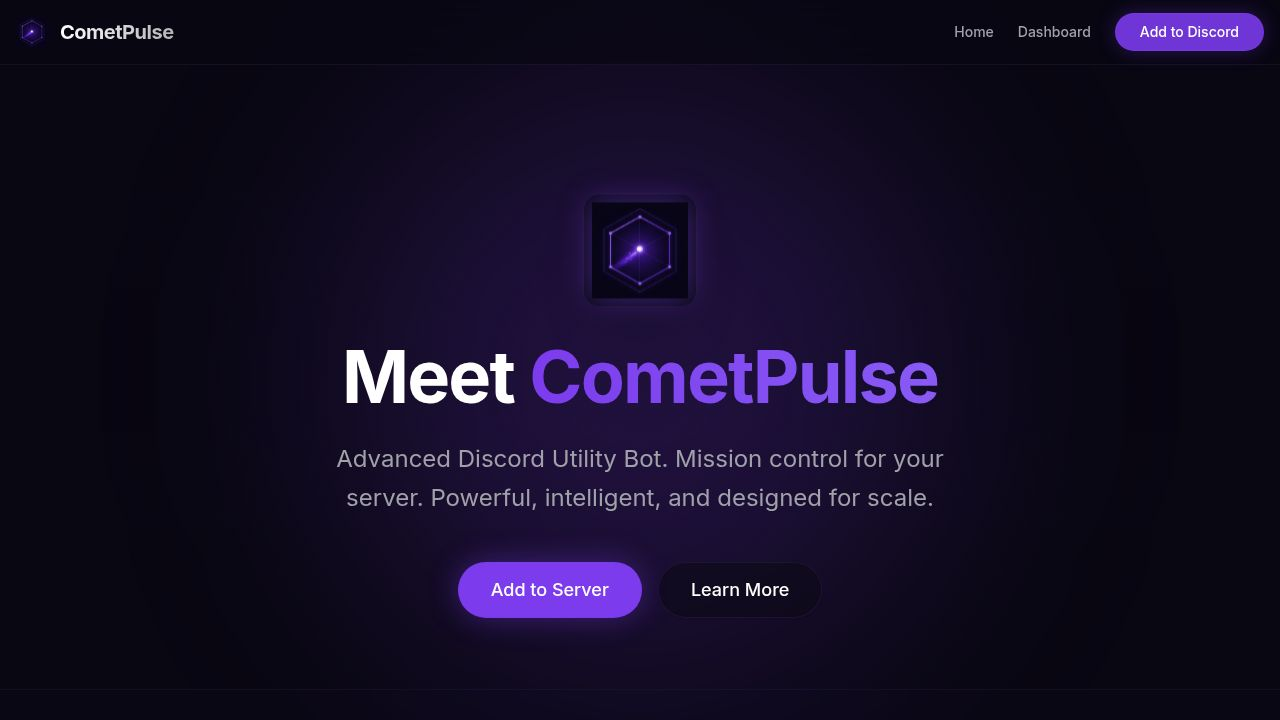
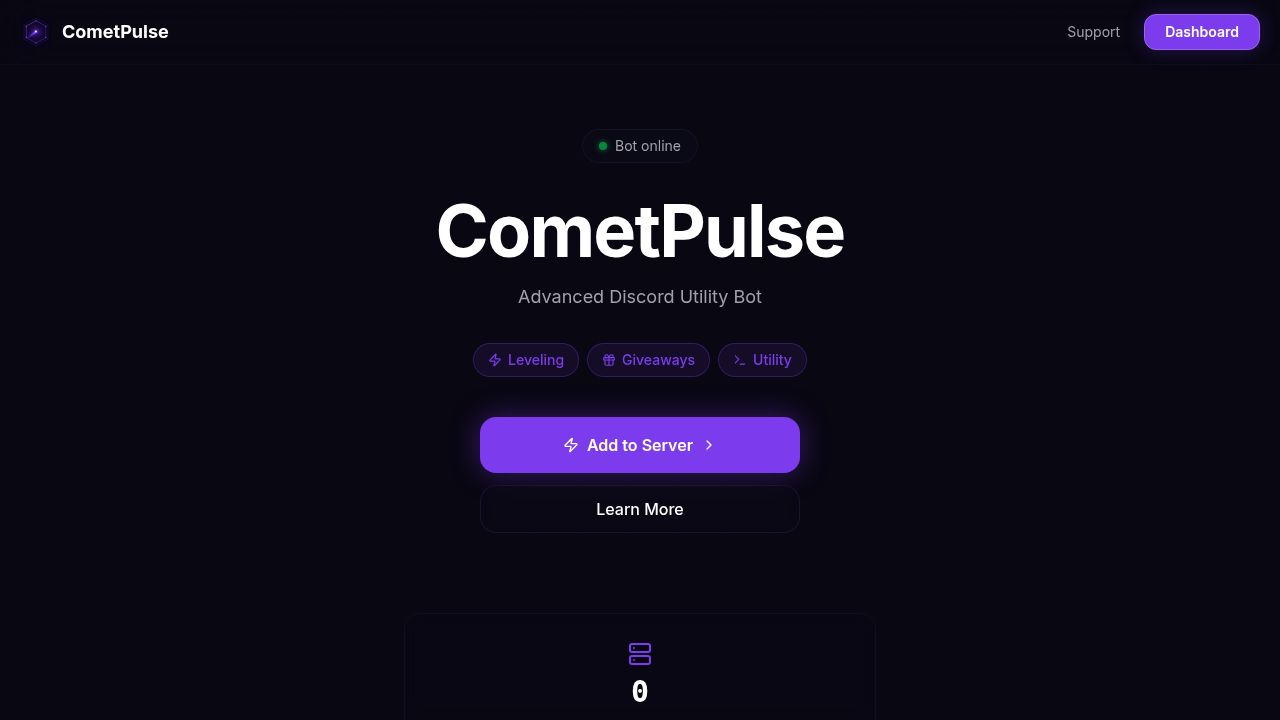
Configure and deploy the dashboard and API server to Render
Update render.yaml and dashboard configurations to enable deployment of both the API server and dashboard services. This includes adjusting port settings, environment variables, and build/start commands. A new server.js file is added for the dashboard's backend functionality.

Replit-Commit-Author: Agent
Replit-Commit-Session-Id: cc53a653-ec47-4b14-bd42-423846c45d6f
Replit-Commit-Checkpoint-Type: full_checkpoint
Replit-Commit-Event-Id: 0e2bfa90-5438-40c3-a42f-837baa0808b9
Replit-Commit-Screenshot-Url: https://storage.googleapis.com/screenshot-production-us-central1/07df3e6b-b4d5-43be-aa9c-41c593d2ee37/cc53a653-ec47-4b14-bd42-423846c45d6f/zeIOswi
Replit-Helium-Checkpoint-Created: true

diff --git a/artifacts/dashboard/server.js b/artifacts/dashboard/server.js
@@ -1,0 +1,137 @@
+import express from "express";
+import session from "express-session";
+import { createProxyMiddleware } from "http-proxy-middleware";
+import { fileURLToPath } from "url";
+import { dirname, join } from "path";
+import { existsSync } from "fs";
+
+const __dirname = dirname(fileURLToPath(import.meta.url));
+
+const PORT = process.env.PORT || 5000;
+const BOT_API_URL = process.env.BOT_API_URL;
+const CLIENT_ID = process.env.CLIENT_ID || process.env.DISCORD_CLIENT_ID;
+const CLIENT_SECRET = process.env.CLIENT_SECRET;
+const SESSION_SECRET = process.env.SESSION_SECRET || "changeme-set-SESSION_SECRET";
+const BASE_URL = process.env.BASE_URL || `http://localhost:${PORT}`;
+const REDIRECT_URI = `${BASE_URL}/auth/callback`;
+
+const app = express();
+
+app.use(
+  session({
+    secret: SESSION_SECRET,
+    resave: false,
+    saveUninitialized: false,
+    cookie: {
+      secure: process.env.NODE_ENV === "production",
+      httpOnly: true,
+      maxAge: 7 * 24 * 60 * 60 * 1000,
+    },
+  })
+);
+
+app.get("/auth/login", (_req, res) => {
+  if (!CLIENT_ID) {
+    res.status(500).send("CLIENT_ID is not configured");
+    return;
+  }
+  const url =
+    `https://discord.com/oauth2/authorize` +
+    `?client_id=${CLIENT_ID}` +
+    `&redirect_uri=${encodeURIComponent(REDIRECT_URI)}` +
+    `&response_type=code` +
+    `&scope=identify%20guilds`;
+  res.redirect(url);
+});
+
+app.get("/auth/callback", async (req, res) => {
+  const { code } = req.query;
+  if (!code) {
+    res.status(400).send("Missing OAuth code");
+    return;
+  }
+
+  try {
+    const tokenRes = await fetch("https://discord.com/api/oauth2/token", {
+      method: "POST",
+      headers: { "Content-Type": "application/x-www-form-urlencoded" },
+      body: new URLSearchParams({
+        client_id: CLIENT_ID,
+        client_secret: CLIENT_SECRET,
+        grant_type: "authorization_code",
+        code: String(code),
+        redirect_uri: REDIRECT_URI,
+      }),
+    });
+
+    const tokenData = await tokenRes.json();
+    if (!tokenRes.ok) {
+      console.error("OAuth token error:", tokenData);
+      res.status(500).send("Failed to exchange OAuth code");
+      return;
+    }
+
+    const userRes = await fetch("https://discord.com/api/users/@me", {
+      headers: { Authorization: `Bearer ${tokenData.access_token}` },
+    });
+    const user = await userRes.json();
+
+    const guildsRes = await fetch("https://discord.com/api/users/@me/guilds", {
+      headers: { Authorization: `Bearer ${tokenData.access_token}` },
+    });
+    const guilds = await guildsRes.json();
+
+    req.session.user = user;
+    req.session.guilds = guilds;
+    req.session.accessToken = tokenData.access_token;
+
+    res.redirect("/");
+  } catch (err) {
+    console.error("OAuth callback error:", err);
+    res.status(500).send("Authentication failed");
+  }
+});
+
+app.get("/auth/logout", (req, res) => {
+  req.session.destroy(() => {
+    res.redirect("/");
+  });
+});
+
+app.get("/auth/user", (req, res) => {
+  res.json(req.session.user || null);
+});
+
+app.get("/auth/guilds", (req, res) => {
+  res.json(req.session.guilds || []);
+});
+
+if (BOT_API_URL) {
+  app.use(
+    "/api",
+    createProxyMiddleware({
+      target: BOT_API_URL,
+      changeOrigin: true,
+    })
+  );
+} else {
+  console.warn("BOT_API_URL is not set — /api requests will not be proxied");
+}
+
+const staticDir = join(__dirname, "dist/public");
+if (existsSync(staticDir)) {
+  app.use(express.static(staticDir));
+  app.get("*", (_req, res) => {
+    res.sendFile(join(staticDir, "index.html"));
+  });
+} else {
+  app.get("/", (_req, res) => {
+    res.send(
+      "Dashboard not built yet. Run <code>pnpm run build</code> first."
+    );
+  });
+}
+
+app.listen(Number(PORT), "0.0.0.0", () => {
+  console.log(`Dashboard running on port ${PORT}`);
+});

diff --git a/artifacts/dashboard/vite.config.ts b/artifacts/dashboard/vite.config.ts
@@ -6,10 +6,10 @@ import runtimeErrorOverlay from "@replit/vite-plugin-runtime-error-modal";
 
 const isBuild = process.argv.includes("build");
 
-const rawPort = process.env.PORT ?? "3000";
+const rawPort = process.env.DASHBOARD_PORT ?? "23183";
 const port = Number(rawPort);
 if (Number.isNaN(port) || port <= 0) {
-  throw new Error(`Invalid PORT value: "${rawPort}"`);
+  throw new Error(`Invalid DASHBOARD_PORT value: "${rawPort}"`);
 }
 
 const basePath = process.env.BASE_PATH ?? "/";